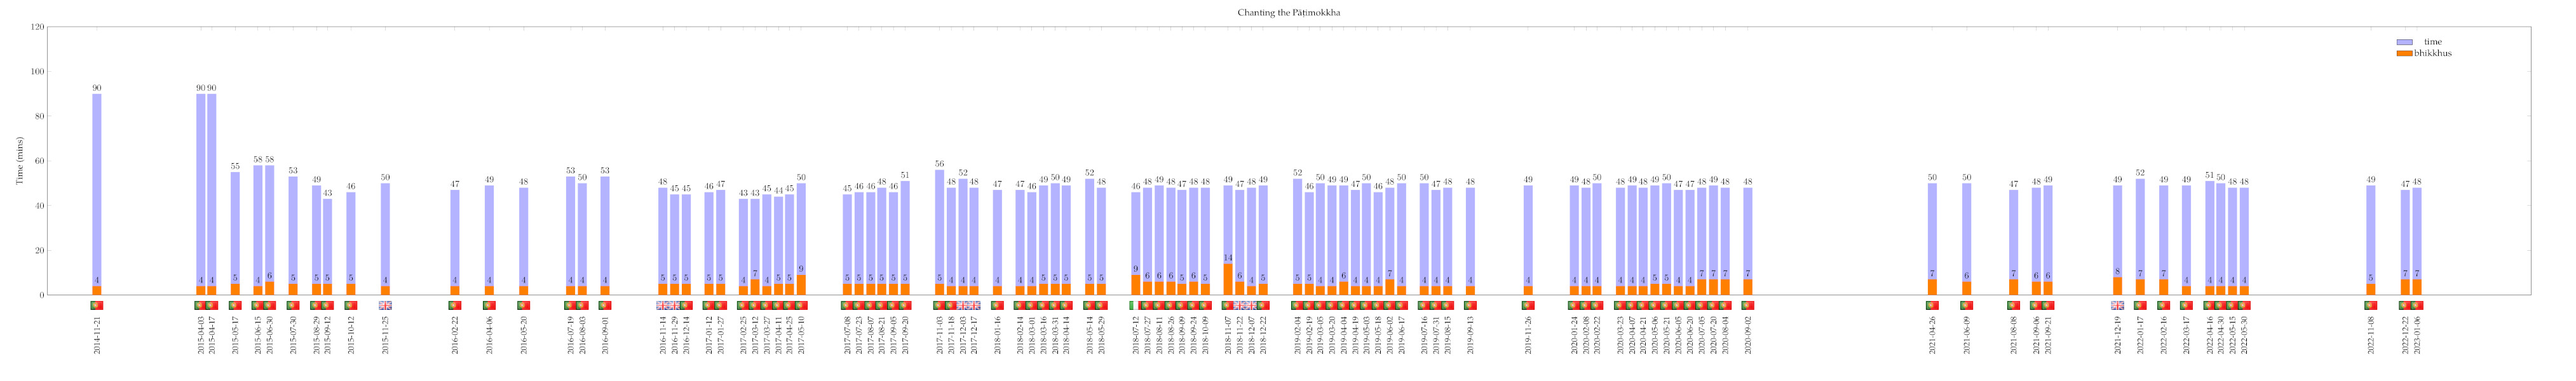
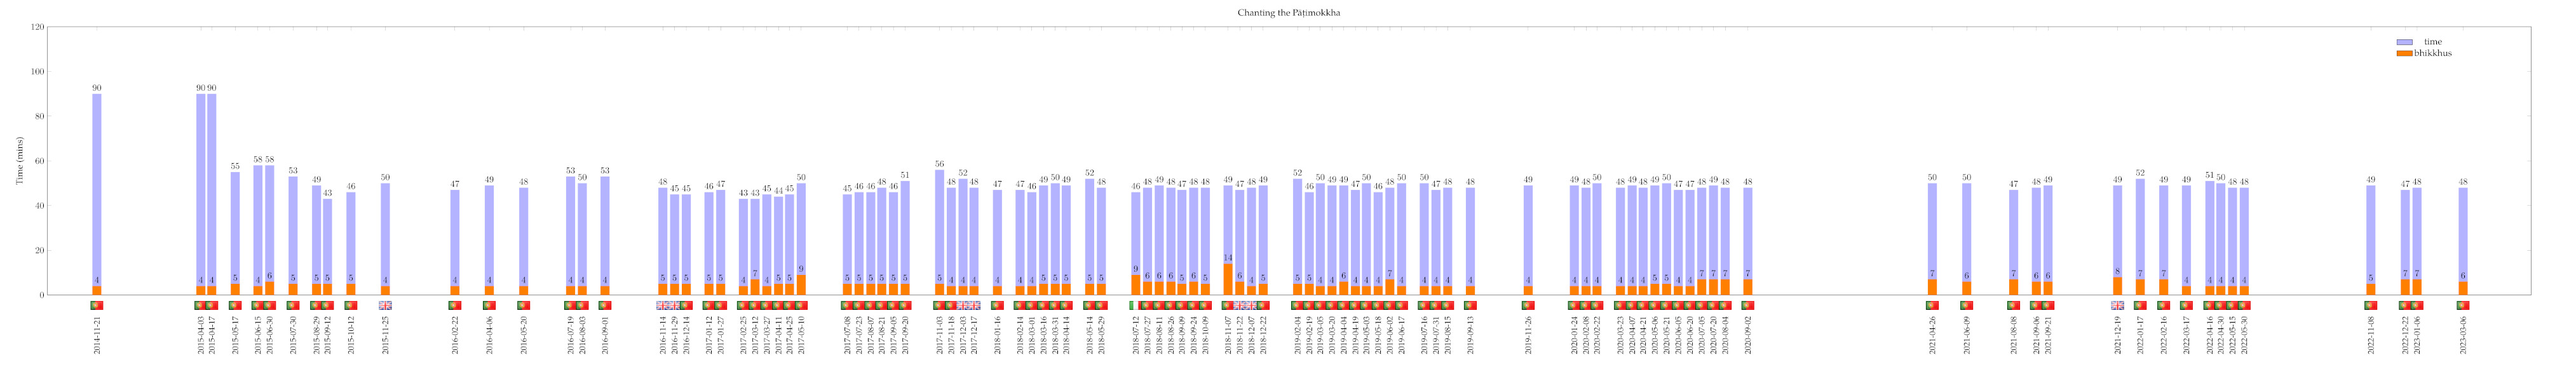
upd

Changed region(s): [[0.9324, 0.51, 0.9635, 0.75], [0.9324, 0.78, 0.9635, 0.81]]

diff --git a/src/patimokkha-chanting-chart.tex b/src/patimokkha-chanting-chart.tex
@@ -189,6 +189,7 @@
   \node [anchor=south, yshift=-20pt] at (axis cs:2022-11-08,0) {\includegraphics[width=5mm]{pt}};
   \node [anchor=south, yshift=-20pt] at (axis cs:2022-12-22,0) {\includegraphics[width=5mm]{pt}};
   \node [anchor=south, yshift=-20pt] at (axis cs:2023-01-06,0) {\includegraphics[width=5mm]{pt}};
+  \node [anchor=south, yshift=-20pt] at (axis cs:2023-03-06,0) {\includegraphics[width=5mm]{pt}};
 
 \end{axis}
 \end{tikzpicture}
